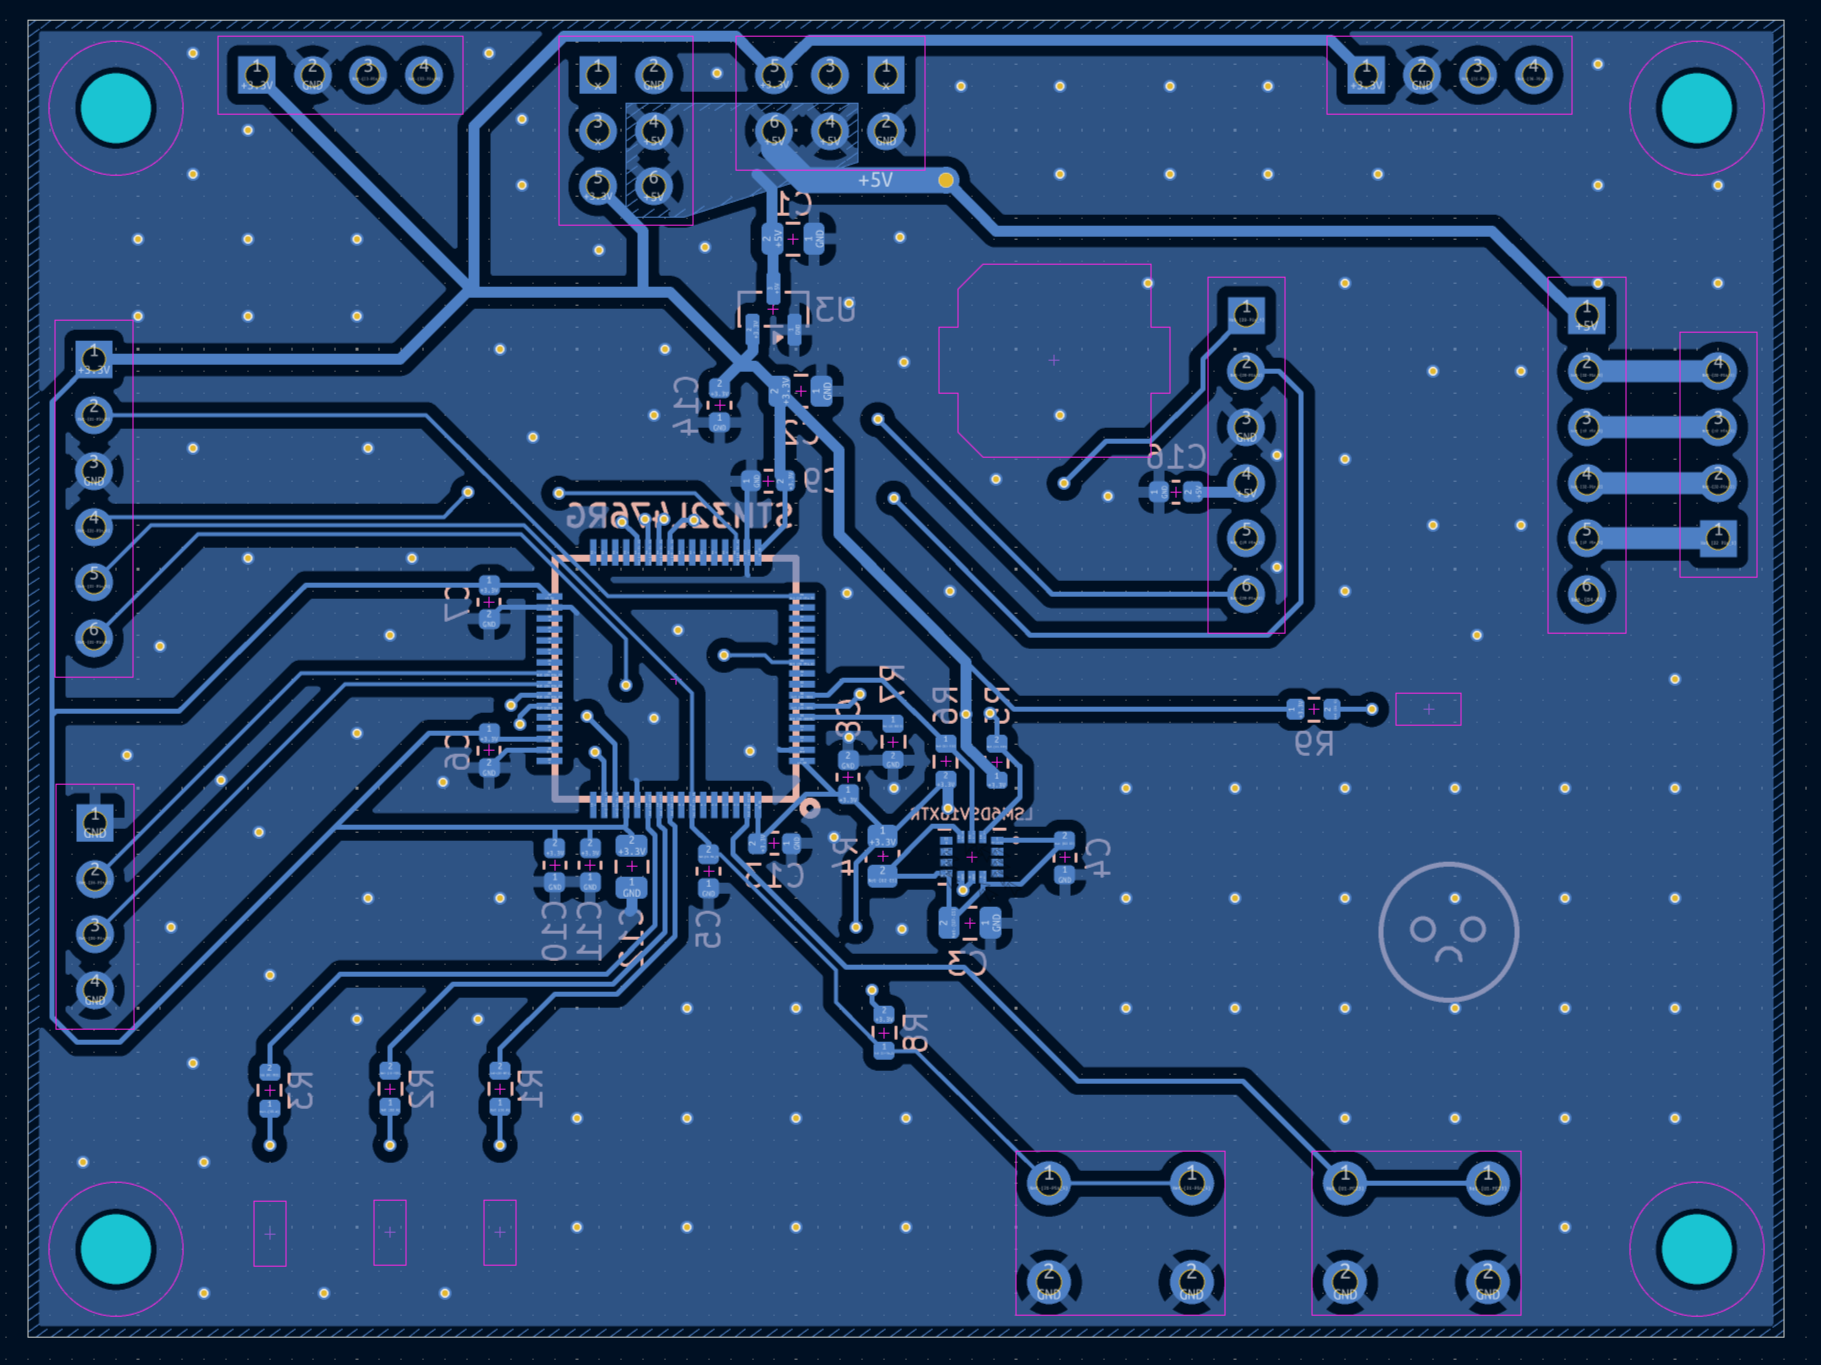
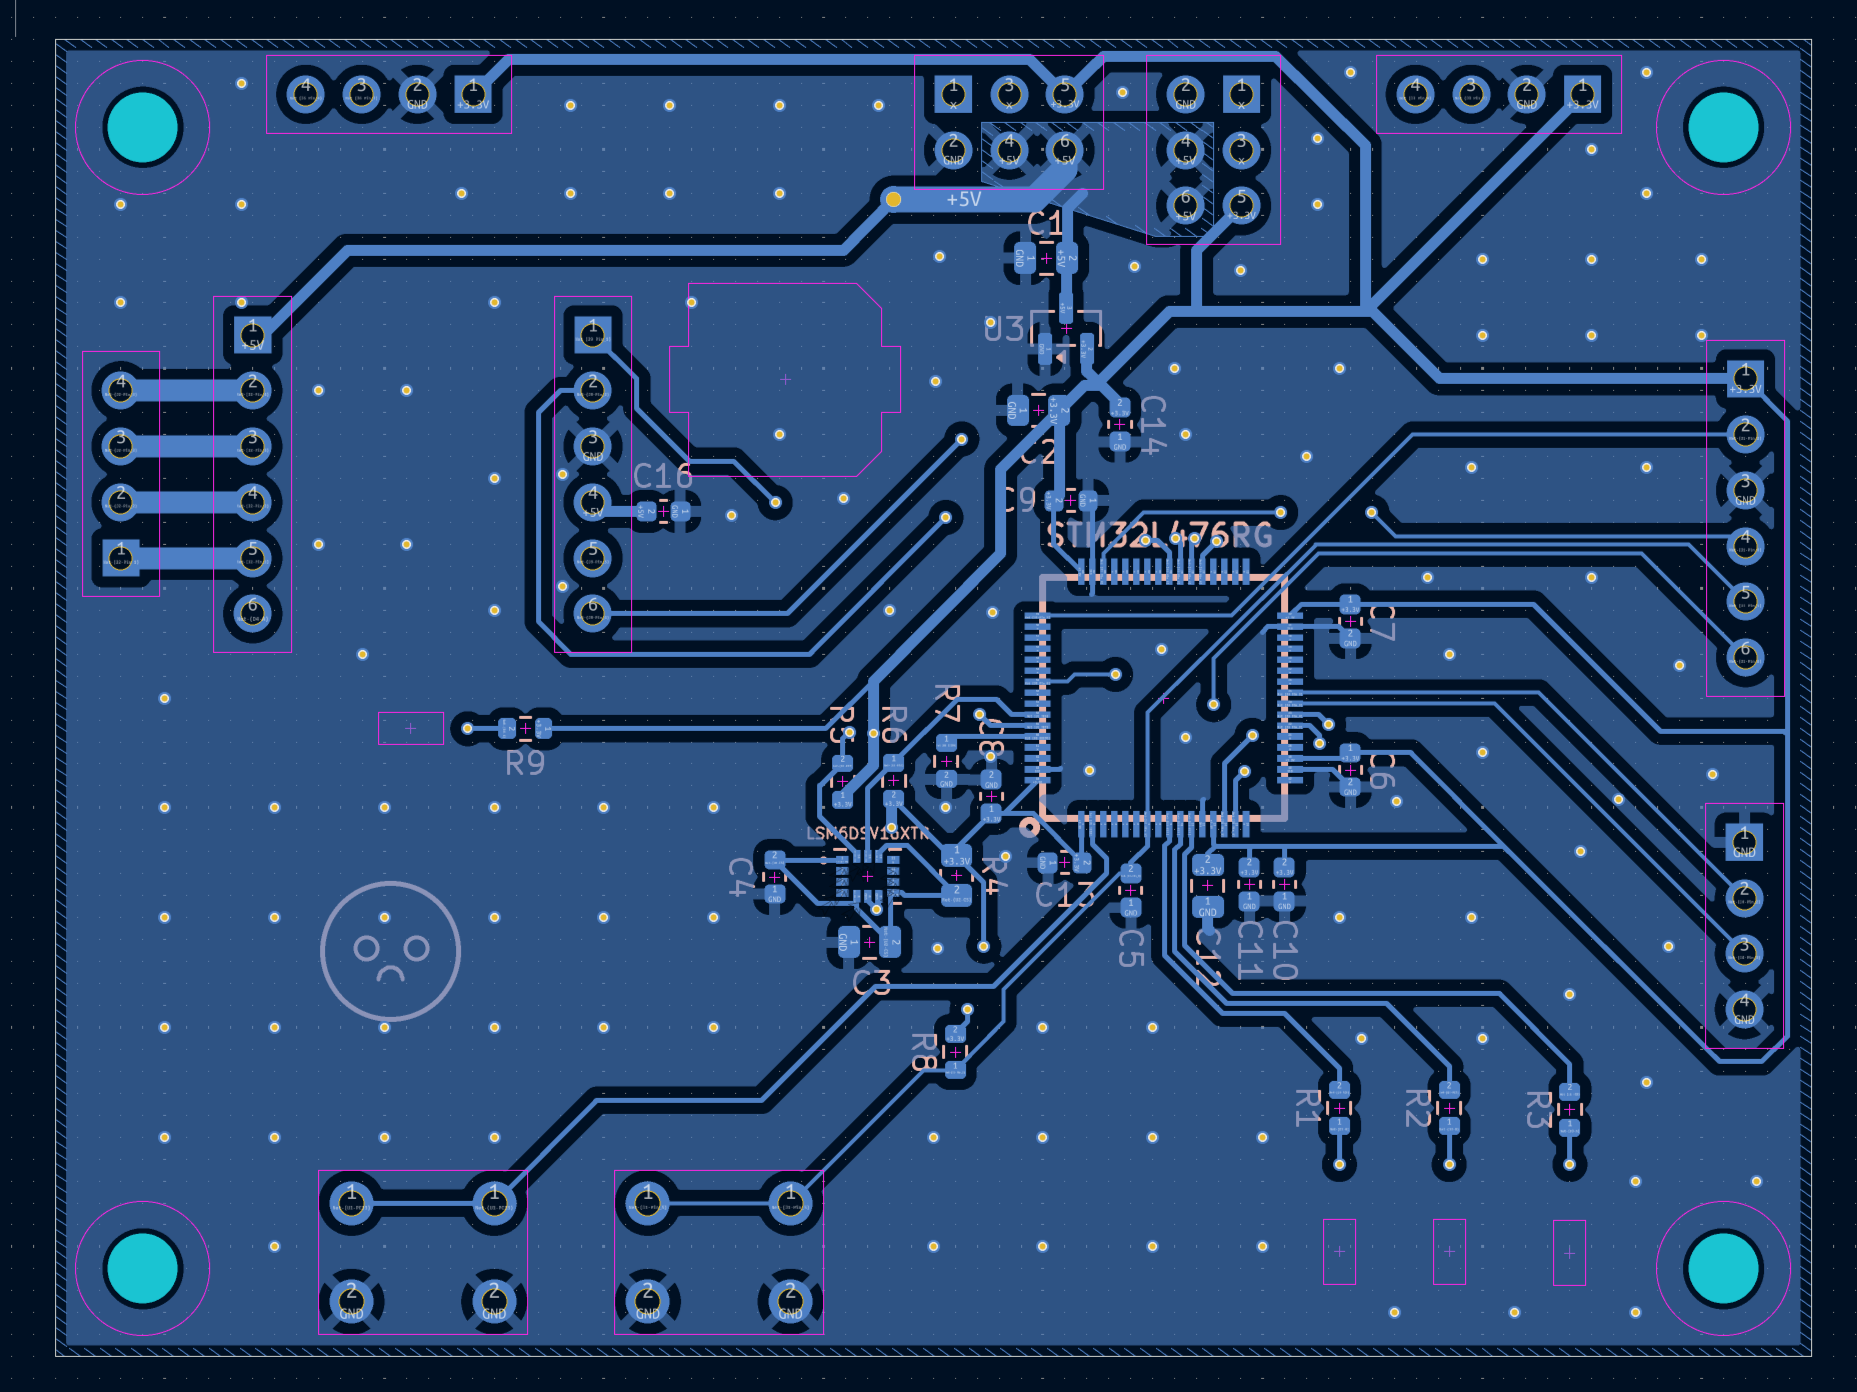
updated README

diff --git a/README.md b/README.md
@@ -1,20 +1,25 @@
 # pg-id-656-main-controller-pcb
 Custom PCB controller board for an autonomous wheeled robot featuring **STM32L476RG**
 <div align="center">
-    <img src="images/photo1.jpeg" width="50%">
+    <img src="images/photo1.jpeg" width="60%">
 </div>
 
 
-## Project Scope
+## Project Scope & Features
 * **Design:** Mixed-signal schematic and custom 2-layer PCB layout designed in **KiCad 9.0.5**.
-* **Hardware:** Microcontroller-driven architecture utilizing an ARM Cortex-M4 **STM32L476RGT6**, an **LSM6DSV16X** 6-axis IMU via I2C, and a **DI6206** 3.3V LDO linear regulator for logic power management.
-* **Interfaces:** Features onboard SWD programming header, UART comunication port, motor driver connectors, encoder inputs, status LEDs, and user buttons.
-* **Assembly:** Surface-mount technology (SMT) featuring 0603 and 0805 passive components, LQFP-64, and LGA-14 IC packages.
+* **Core Architecture:** Driven by the ARM Cortex-M4 **STM32L476RGT6** MCU, paired with a **DI6206** 3.3V LDO linear regulator for clean logic power management.
+* **Motion & Power Control:** Integrated female header socket sockets designed for direct mounting of a **DRV8833** dual H-bridge motor driver breakout module.
+  * Hardware-level fault protection monitoring via a dedicated active-low emergency fault indicator LED connected directly to the driver's `nFAULT` pin (signals overcurrent, thermal shutdown, or undervoltage conditions).
+* **Sensing & Odometry:**
+  * Onboard ultra-low-power **LSM6DSV16X** 6-axis IMU communicating via I2C for inertial navigation.
+  * Dedicated dual **Encoder input ports** providing +5V power and bidirectional hardware interrupt channels for precise wheel speed and position tracking.
+* **User Interface & Diagnostics:** General-purpose status and user LEDs for runtime debugging.
+  * Onboard tactile user buttons and a hardware reset line.
 
-### pcb photos and renders:
+## pcb photos and renders:
 <div style="display: flex; gap: 10px;">
-  <img src="images/robot-pcb-3Dview_1.png" width="45%">
-  <img src="images/robot-pcb-3Dview_2.png" width="45%">
+  <img src="images/render-front.png" width="45%">
+  <img src="images/render-back.png" width="45%">
 </div>
 
 <div style="display: flex; gap: 10px;">
@@ -23,10 +28,10 @@ Custom PCB controller board for an autonomous wheeled robot featuring **STM32L47
 </div>
 
 
-### pcb layout:
+## pcb layout:
 <div style="display: flex; gap: 10px;">
-  <img src="images/robot-pcb-layout_1.png" width="45%">
-  <img src="images/robot-pcb-layout_2.png" width="45%">
+  <img src="images/pcb-front.png" width="45%">
+  <img src="images/pcb-back.png" width="45%">
 </div>
 <div style="display: flex; gap: 10px;">
   <img src="images/photo4.jpeg" width="45%">
@@ -34,16 +39,18 @@ Custom PCB controller board for an autonomous wheeled robot featuring **STM32L47
 </div>
 
 
-### circuit diagram:
+## circuit diagram:
 <div style="display: flex; gap: 10px;">
-  <img src="images/robot-schematic.png" width="90%">
+  <img src="images/schematics.png" width="90%">
 </div>
 
 
 
 
 ## Repository Structure
-* `pg-id656.kicad_pro` – Main KiCad project file.
-* `pg-id656.kicad_sch` – Schematic source file.
-* `pg-id656.kicad_pcb` – PCB layout source file.
-* `/images` – PCB 3D renders, schematic exports, and physical project photos.
+* `3Dmodels/` – 3D STEP/STL models.
+* `gerbers/` – Production-ready Gerber and drill files.
+* `images/` – 3D renders, schematic exports, and photos.
+* `KiCad-files/` – KiCad project source files (`.kicad_pro`, `.kicad_sch`, `.kicad_pcb`).
+* `id-656-pcb_v8.pdf` – PDF export of the PCB layout.
+* `id-656-schematics_v8.pdf` – PDF export of the schematic diagram.
